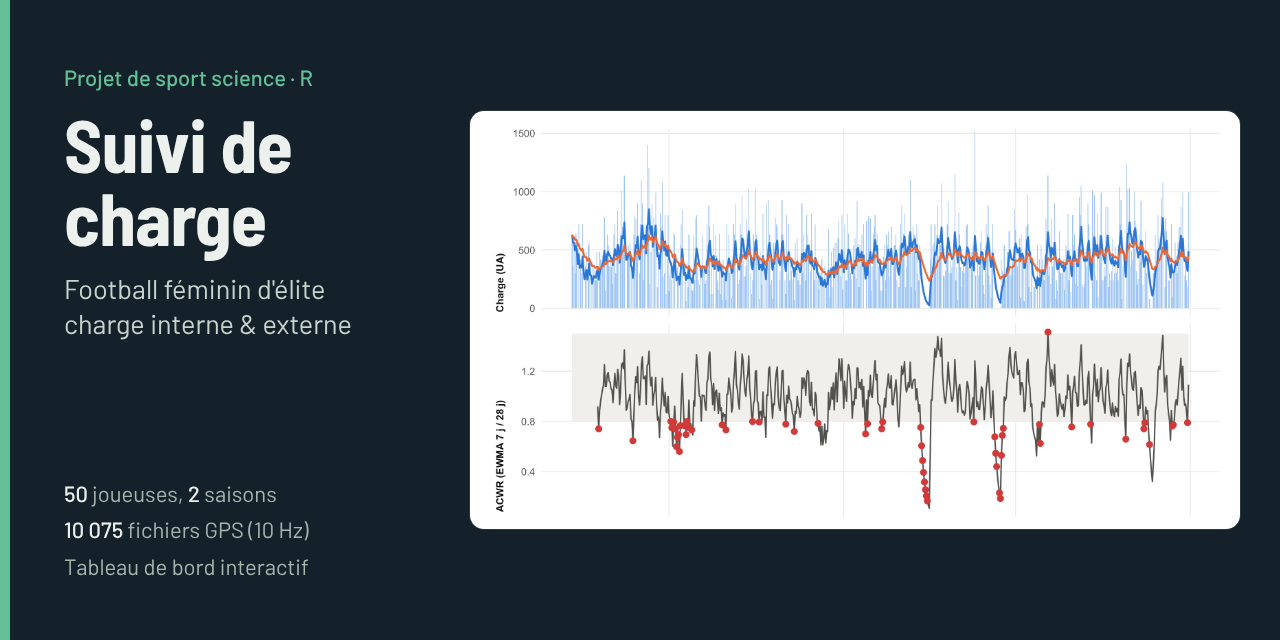
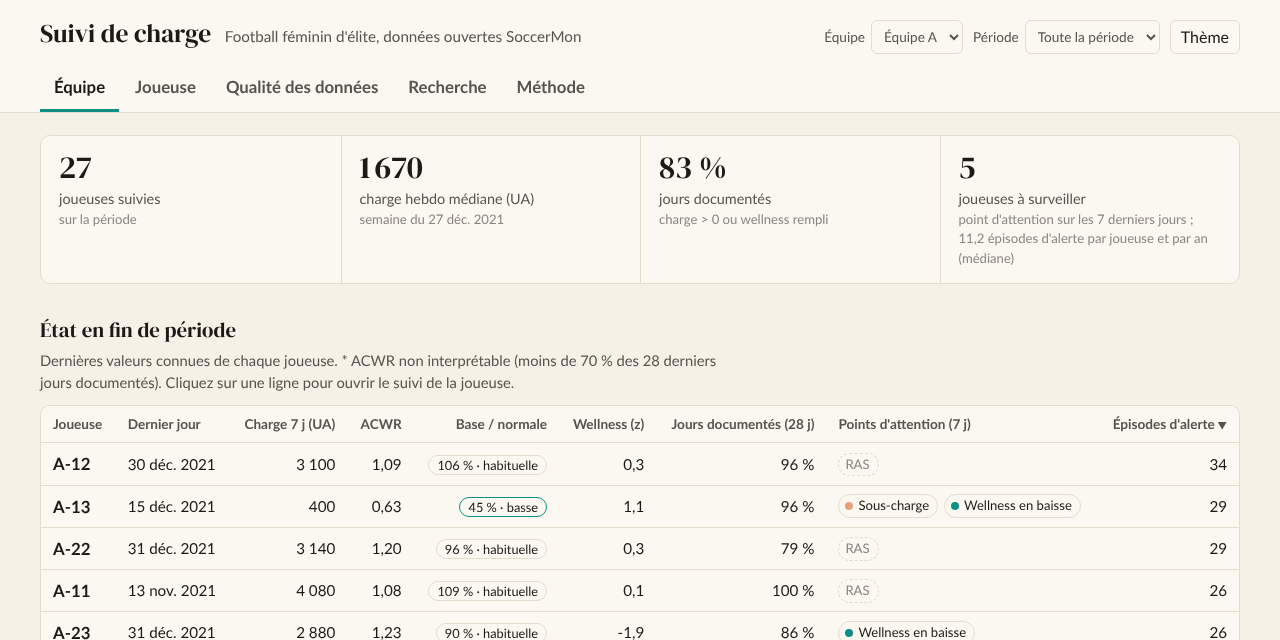
Tableau de bord aux couleurs de la charte (clair et sombre), polices DM Serif Display et Lato, signature, nouvel aperçu

diff --git a/docs/index.html b/docs/index.html
@@ -17,44 +17,48 @@
 <meta name="author" content="Julie Landrevie">
 <link rel="preconnect" href="https://fonts.googleapis.com">
 <link rel="preconnect" href="https://fonts.gstatic.com" crossorigin>
-<link href="https://fonts.googleapis.com/css2?family=Barlow:wght@400;500;600&family=Barlow+Semi+Condensed:wght@500;600;700&display=swap" rel="stylesheet">
+<link href="https://fonts.googleapis.com/css2?family=DM+Serif+Display&family=Lato:wght@400;700;900&display=swap" rel="stylesheet">
 <style>
 :root {
-  --bg: #eef1ef; --surface: #ffffff; --ink: #15212a; --ink-2: #4e5b65; --ink-3: #7b8790;
-  --line: #d6ddd9; --pitch: #1e5b45; --pitch-soft: #e1ece6; --zone: #e8ecea;
-  --s-blue: #2a78d6; --s-blue-light: #9ec5f4; --s-orange: #eb6834; --s-aqua: #1baf7a;
-  --alert: #d03b3b; --serious: #ec835a; --warning: #c98500; --good: #0ca30c;
-  --seq-0: #cde2fb; --seq-1: #86b6ef; --seq-2: #3987e5; --seq-3: #1c5cab; --seq-4: #0d366b;
-  --empty: #f4f6f5;
+  --bg: #f6f1e7; --surface: #fbf8f2; --ink: #1c1917; --ink-2: #57534e; --ink-3: #8a8580;
+  --line: #e4dccd; --pitch: #0d8f84; --pitch-soft: #e4eee8; --zone: #ece5d6;
+  --s-blue: #0d8f84; --s-blue-light: #a8d3cc; --s-orange: #cc4a12; --s-aqua: #5aa99f;
+  --alert: #cc4a12; --serious: #e3a27e; --warning: #a8790f; --good: #0d8f84;
+  --seq-0: #dcebe5; --seq-1: #a4d0c8; --seq-2: #5aaea3; --seq-3: #0d8f84; --seq-4: #075a53;
+  --empty: #efe9dd;
+  --fill-a: rgba(13,143,132,0.16); --fill-b: rgba(204,74,18,0.14);
   color-scheme: light;
 }
 @media (prefers-color-scheme: dark) {
   :root:not([data-theme="light"]) {
-    --bg: #11181c; --surface: #182126; --ink: #ecf1ee; --ink-2: #a8b4ae; --ink-3: #7f8b86;
-    --line: #2a373d; --pitch: #63c096; --pitch-soft: #1d3029; --zone: #22303a;
-    --s-blue: #3987e5; --s-blue-light: #2a5c95; --s-orange: #d95926; --s-aqua: #199e70;
-    --alert: #e66767; --serious: #ec835a; --warning: #fab219; --good: #3cc23c;
-    --seq-0: #184f95; --seq-1: #256abf; --seq-2: #3987e5; --seq-3: #6da7ec; --seq-4: #b7d3f6;
-    --empty: #1f2a30;
+      --bg: #13110f; --surface: #1c1916; --ink: #f2ede4; --ink-2: #b9b1a6; --ink-3: #8a8278;
+    --line: #302a24; --pitch: #2fb3a6; --pitch-soft: #1d2a27; --zone: #27221c;
+    --s-blue: #2fb3a6; --s-blue-light: #1e5a54; --s-orange: #e8692f; --s-aqua: #3f8f86;
+    --alert: #e8692f; --serious: #b07150; --warning: #d6a23a; --good: #2fb3a6;
+    --seq-0: #183b37; --seq-1: #1e665e; --seq-2: #2a9389; --seq-3: #5cc2b6; --seq-4: #ade2da;
+    --empty: #221e1a;
+    --fill-a: rgba(47,179,166,0.20); --fill-b: rgba(232,105,47,0.18);
     color-scheme: dark;
   }
 }
 :root[data-theme="dark"] {
-  --bg: #11181c; --surface: #182126; --ink: #ecf1ee; --ink-2: #a8b4ae; --ink-3: #7f8b86;
-  --line: #2a373d; --pitch: #63c096; --pitch-soft: #1d3029; --zone: #22303a;
-  --s-blue: #3987e5; --s-blue-light: #2a5c95; --s-orange: #d95926; --s-aqua: #199e70;
-  --alert: #e66767; --serious: #ec835a; --warning: #fab219; --good: #3cc23c;
-  --seq-0: #184f95; --seq-1: #256abf; --seq-2: #3987e5; --seq-3: #6da7ec; --seq-4: #b7d3f6;
-  --empty: #1f2a30;
+  --bg: #13110f; --surface: #1c1916; --ink: #f2ede4; --ink-2: #b9b1a6; --ink-3: #8a8278;
+  --line: #302a24; --pitch: #2fb3a6; --pitch-soft: #1d2a27; --zone: #27221c;
+  --s-blue: #2fb3a6; --s-blue-light: #1e5a54; --s-orange: #e8692f; --s-aqua: #3f8f86;
+  --alert: #e8692f; --serious: #b07150; --warning: #d6a23a; --good: #2fb3a6;
+  --seq-0: #183b37; --seq-1: #1e665e; --seq-2: #2a9389; --seq-3: #5cc2b6; --seq-4: #ade2da;
+  --empty: #221e1a;
+  --fill-a: rgba(47,179,166,0.20); --fill-b: rgba(232,105,47,0.18);
   color-scheme: dark;
 }
 * { box-sizing: border-box; }
 html { -webkit-text-size-adjust: 100%; }
 body {
   margin: 0; background: var(--bg); color: var(--ink);
-  font: 400 16px/1.5 "Barlow", system-ui, sans-serif;
+  font: 400 16px/1.5 "Lato", system-ui, sans-serif;
 }
-h1, h2, h3, .num, .tab { font-family: "Barlow Semi Condensed", "Barlow", sans-serif; }
+h1, h2, h3, .num, .big { font-family: "DM Serif Display", Georgia, serif; font-weight: 400 !important; }
+.tab, .player-name, .chart-title { font-family: "Lato", system-ui, sans-serif; }
 a { color: var(--pitch); }
 button, select, input { font: inherit; color: inherit; }
 :focus-visible { outline: 2px solid var(--pitch); outline-offset: 2px; }
@@ -66,8 +70,8 @@ button, select, input { font: inherit; color: inherit; }
 }
 .top-inner { max-width: 1240px; margin: 0 auto; padding: 14px 20px 0; }
 .title-row { display: flex; gap: 16px; align-items: baseline; flex-wrap: wrap; justify-content: space-between; }
-h1 { font-size: 1.6rem; font-weight: 700; margin: 0; letter-spacing: -0.01em; }
-h1 small { font: 500 0.95rem/1.3 "Barlow", sans-serif; color: var(--ink-2); margin-left: 8px; letter-spacing: 0; }
+h1 { font-size: 1.6rem; margin: 0; letter-spacing: 0; }
+h1 small { font: 500 0.95rem/1.3 "Lato", sans-serif; color: var(--ink-2); margin-left: 8px; letter-spacing: 0; }
 .filters { display: flex; gap: 10px; flex-wrap: wrap; align-items: center; }
 .filters label { font-size: 0.85rem; color: var(--ink-2); display: flex; gap: 6px; align-items: center; }
 select, input[type="date"] {
@@ -113,7 +117,7 @@ td.r, th.r { text-align: right; font-variant-numeric: tabular-nums; }
 tbody tr { cursor: pointer; }
 tbody tr:hover { background: var(--pitch-soft); }
 tbody tr:last-child td { border-bottom: 0; }
-.player-name { font-family: "Barlow Semi Condensed", sans-serif; font-weight: 600; font-size: 1.05rem; }
+.player-name { font-family: "Lato", sans-serif; font-weight: 600; font-size: 1.05rem; }
 .muted { color: var(--ink-3); }
 
 .chips { display: flex; gap: 6px; flex-wrap: wrap; }
@@ -127,11 +131,11 @@ tbody tr:last-child td { border-bottom: 0; }
 
 /* vue joueuse */
 .player-bar { display: flex; gap: 10px; align-items: center; flex-wrap: wrap; margin-bottom: 16px; }
-.player-bar .big { font-family: "Barlow Semi Condensed", sans-serif; font-size: 2.2rem; font-weight: 700; line-height: 1; margin-right: 6px; }
+.player-bar .big { font-family: "Lato", sans-serif; font-size: 2.2rem; font-weight: 700; line-height: 1; margin-right: 6px; }
 .icon-btn { border: 1px solid var(--line); background: var(--surface); border-radius: 6px; min-width: 34px; height: 34px; cursor: pointer; }
 .icon-btn:hover { border-color: var(--ink-3); }
 .charts-stack { display: grid; gap: 14px; }
-.chart-title { font: 600 1.02rem/1.3 "Barlow Semi Condensed", sans-serif; margin: 6px 6px 0; }
+.chart-title { font: 600 1.02rem/1.3 "Lato", sans-serif; margin: 6px 6px 0; }
 .chart-sub { color: var(--ink-2); font-size: 0.85rem; margin: 0 6px; }
 .legend-inline { display: flex; gap: 14px; flex-wrap: wrap; font-size: 0.85rem; color: var(--ink-2); margin: 4px 6px 0; }
 .legend-inline span { display: inline-flex; gap: 6px; align-items: center; }
@@ -164,7 +168,10 @@ td.pct-low { color: var(--alert); font-weight: 600; }
 .prose dd { margin: 2px 0 0; color: var(--ink-2); }
 .note { border-left: 3px solid var(--pitch); padding: 6px 12px; background: var(--pitch-soft); border-radius: 0 6px 6px 0; max-width: 80ch; }
 .empty { padding: 40px; text-align: center; color: var(--ink-2); }
-footer { max-width: 1240px; margin: 0 auto; padding: 0 20px 30px; color: var(--ink-3); font-size: 0.85rem; }
+footer { max-width: 1240px; margin: 0 auto; padding: 0 20px 30px; color: var(--ink-3); font-size: 0.85rem; display: flex; gap: 18px; align-items: center; justify-content: space-between; flex-wrap: wrap; }
+.sig { display: inline-flex; gap: 10px; align-items: center; color: var(--ink-2); line-height: 1.3; }
+.sig strong { color: var(--ink); }
+.jl { font: 700 1rem/1 "Lato", sans-serif; color: var(--pitch); border: 2px solid var(--pitch); border-radius: 6px; padding: 6px 7px; }
 .theme-toggle { border: 1px solid var(--line); background: var(--surface); border-radius: 6px; height: 34px; padding: 0 10px; cursor: pointer; }
 
 @media (max-width: 760px) {
@@ -427,7 +434,7 @@ footer { max-width: 1240px; margin: 0 auto; padding: 0 20px 30px; color: var(--i
     </ul>
   </section>
 </main>
-<footer id="footer">Julie Landrevie — tableau de bord généré à partir du pipeline R du dépôt.</footer>
+<footer id="footer"><span class="sig"><span class="jl">JL</span><span><strong>Julie Landrevie</strong><br>Data &amp; performance football</span></span><span id="footer-src">Tableau de bord généré à partir du pipeline R du dépôt.</span></footer>
 
 <script src="data.js"></script>
 <script src="https://cdn.jsdelivr.net/npm/plotly.js-cartesian-dist-min@2.35.2/plotly-cartesian.min.js"></script>
@@ -480,11 +487,11 @@ function baseLayout(extra) {
   const ink2 = css("--ink-2"), line = css("--line");
   return Object.assign({
     paper_bgcolor: "rgba(0,0,0,0)", plot_bgcolor: "rgba(0,0,0,0)",
-    font: { family: "Barlow, system-ui, sans-serif", color: ink2, size: 13 },
+    font: { family: "Lato, system-ui, sans-serif", color: ink2, size: 13 },
     margin: { l: 52, r: 14, t: 10, b: 34 }, showlegend: false,
     xaxis: { type: "date", gridcolor: line, linecolor: line, zeroline: false, tickformat: "%b %Y", hoverformat: "%d %b %Y" },
     yaxis: { gridcolor: line, linecolor: line, zeroline: false },
-    hoverlabel: { bgcolor: css("--surface"), bordercolor: line, font: { color: css("--ink"), family: "Barlow, sans-serif" } },
+    hoverlabel: { bgcolor: css("--surface"), bordercolor: line, font: { color: css("--ink"), family: "Lato, sans-serif" } },
     hovermode: "x unified"
   }, extra || {});
 }
@@ -619,7 +626,7 @@ function renderTeam() {
   const corner = (x, y, t, xa, ya) => ({ x, y, text: t, showarrow: false, xanchor: xa, yanchor: ya, font: { size: 12, color: css("--ink-3") } });
   plot("team-quad", [{
     type: "scatter", mode: "markers+text", x: qd.map((r) => r.base), y: qd.map((r) => r.acwr), text: qd.map((r) => r.id),
-    textposition: "top center", textfont: { family: "Barlow Semi Condensed", size: 12, color: css("--ink-2") },
+    textposition: "top center", textfont: { family: "Lato", size: 12, color: css("--ink-2") },
     customdata: qd.map((r) => [nf(r.acute), nf(r.chronic), readRatio(r.acwr, r.base)]),
     marker: { size: 10, color: qd.map((r) => (r.flags7 & 3) ? css("--alert") : css("--s-blue")), line: { color: css("--surface"), width: 1.5 } },
     hovertemplate: "<b>%{text}</b><br>ACWR %{y:.2f} · base %{x:.0%} de sa normale<br>Aiguë %{customdata[0]} UA/j · chronique %{customdata[1]} UA/j<br>%{customdata[2]}<extra></extra>"
@@ -645,7 +652,7 @@ function renderTeam() {
   }], baseLayout({
     height: Math.max(320, 26 * weekly.ids.length + 70), hovermode: "closest",
     margin: { l: 56, r: 10, t: 6, b: 34 },
-    yaxis: { autorange: "reversed", type: "category", gridcolor: "rgba(0,0,0,0)", tickfont: { family: "Barlow Semi Condensed", size: 13, color: css("--ink") } },
+    yaxis: { autorange: "reversed", type: "category", gridcolor: "rgba(0,0,0,0)", tickfont: { family: "Lato", size: 13, color: css("--ink") } },
     xaxis: { type: "date", tickformat: "%b %Y", gridcolor: "rgba(0,0,0,0)" }
   }));
   const hm = document.getElementById("team-heatmap");
@@ -835,7 +842,7 @@ function renderQuality() {
     colorbar: { thickness: 10, len: 0.6, outlinewidth: 0, tickformat: ".0%" } }],
     baseLayout({ height: Math.max(320, 24 * ids.length + 60), hovermode: "closest", margin: { l: 56, r: 10, t: 6, b: 40 },
       xaxis: { type: "category", side: "bottom", gridcolor: "rgba(0,0,0,0)" },
-      yaxis: { type: "category", autorange: "reversed", gridcolor: "rgba(0,0,0,0)", tickfont: { family: "Barlow Semi Condensed", color: css("--ink") } } }));
+      yaxis: { type: "category", autorange: "reversed", gridcolor: "rgba(0,0,0,0)", tickfont: { family: "Lato", color: css("--ink") } } }));
 }
 
 /* ---------- recherche ---------- */
@@ -910,7 +917,7 @@ function renderReturns() {
         customdata: idx.map((i) => S.n[i]), hovertemplate: name + " · semaine %{x} : %{y:.0%} (n = %{customdata})<extra></extra>" }];
   };
   const blue = css("--s-blue"), orange = css("--s-orange");
-  const fb = "rgba(57,135,229,0.15)", fo = "rgba(235,104,52,0.15)";
+  const fb = css("--fill-a"), fo = css("--fill-b");
   const lay = (yr) => baseLayout({ height: 300, hovermode: "closest", showlegend: true, legend: { orientation: "h", y: 1.12, x: 0 },
     shapes: [{ type: "line", xref: "paper", x0: 0, x1: 1, y0: 1, y1: 1, line: { color: css("--ink-3"), width: 1 } },
              { type: "line", xref: "paper", x0: 0, x1: 1, y0: 0.9, y1: 0.9, line: { color: css("--ink-3"), width: 1, dash: "dot" } }],
@@ -1093,7 +1100,7 @@ $("#theme").addEventListener("click", () => {
 });
 try { const t = localStorage.getItem("theme"); if (t) document.documentElement.dataset.theme = t; } catch (e) {}
 
-$("#footer").textContent = "Julie Landrevie — " + D.meta.source + ". Données mises à jour le " + frDate(D.meta.generated) + ".";
+$("#footer-src").textContent = "Source : " + D.meta.source + ". Données mises à jour le " + frDate(D.meta.generated) + ".";
 
 // point d'entrée : #joueuse=A-03 ou #quality…
 const h = decodeURIComponent(location.hash.slice(1));
